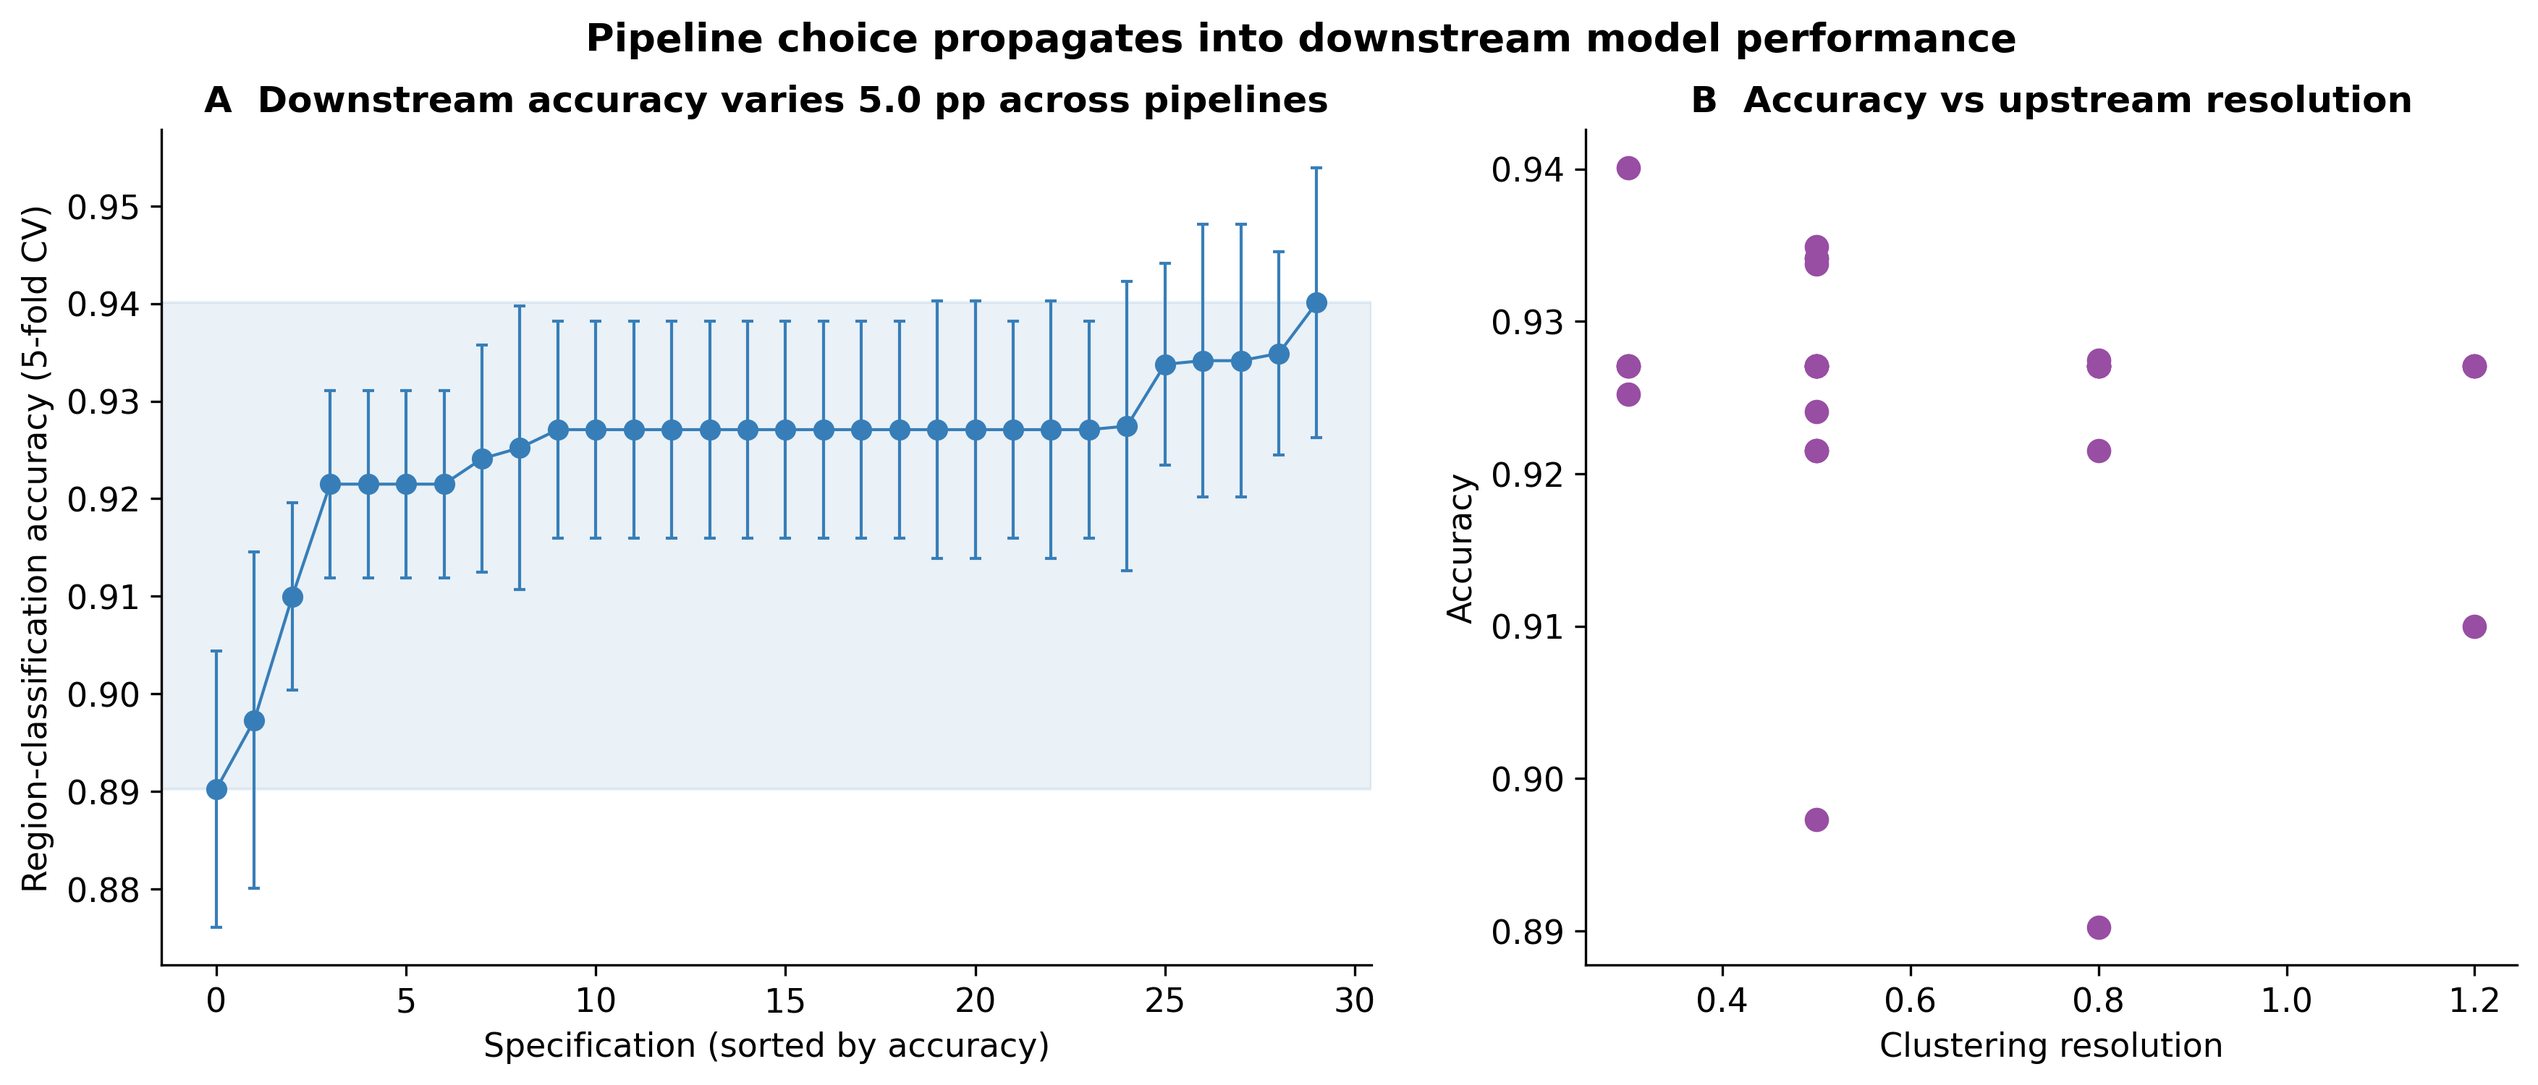
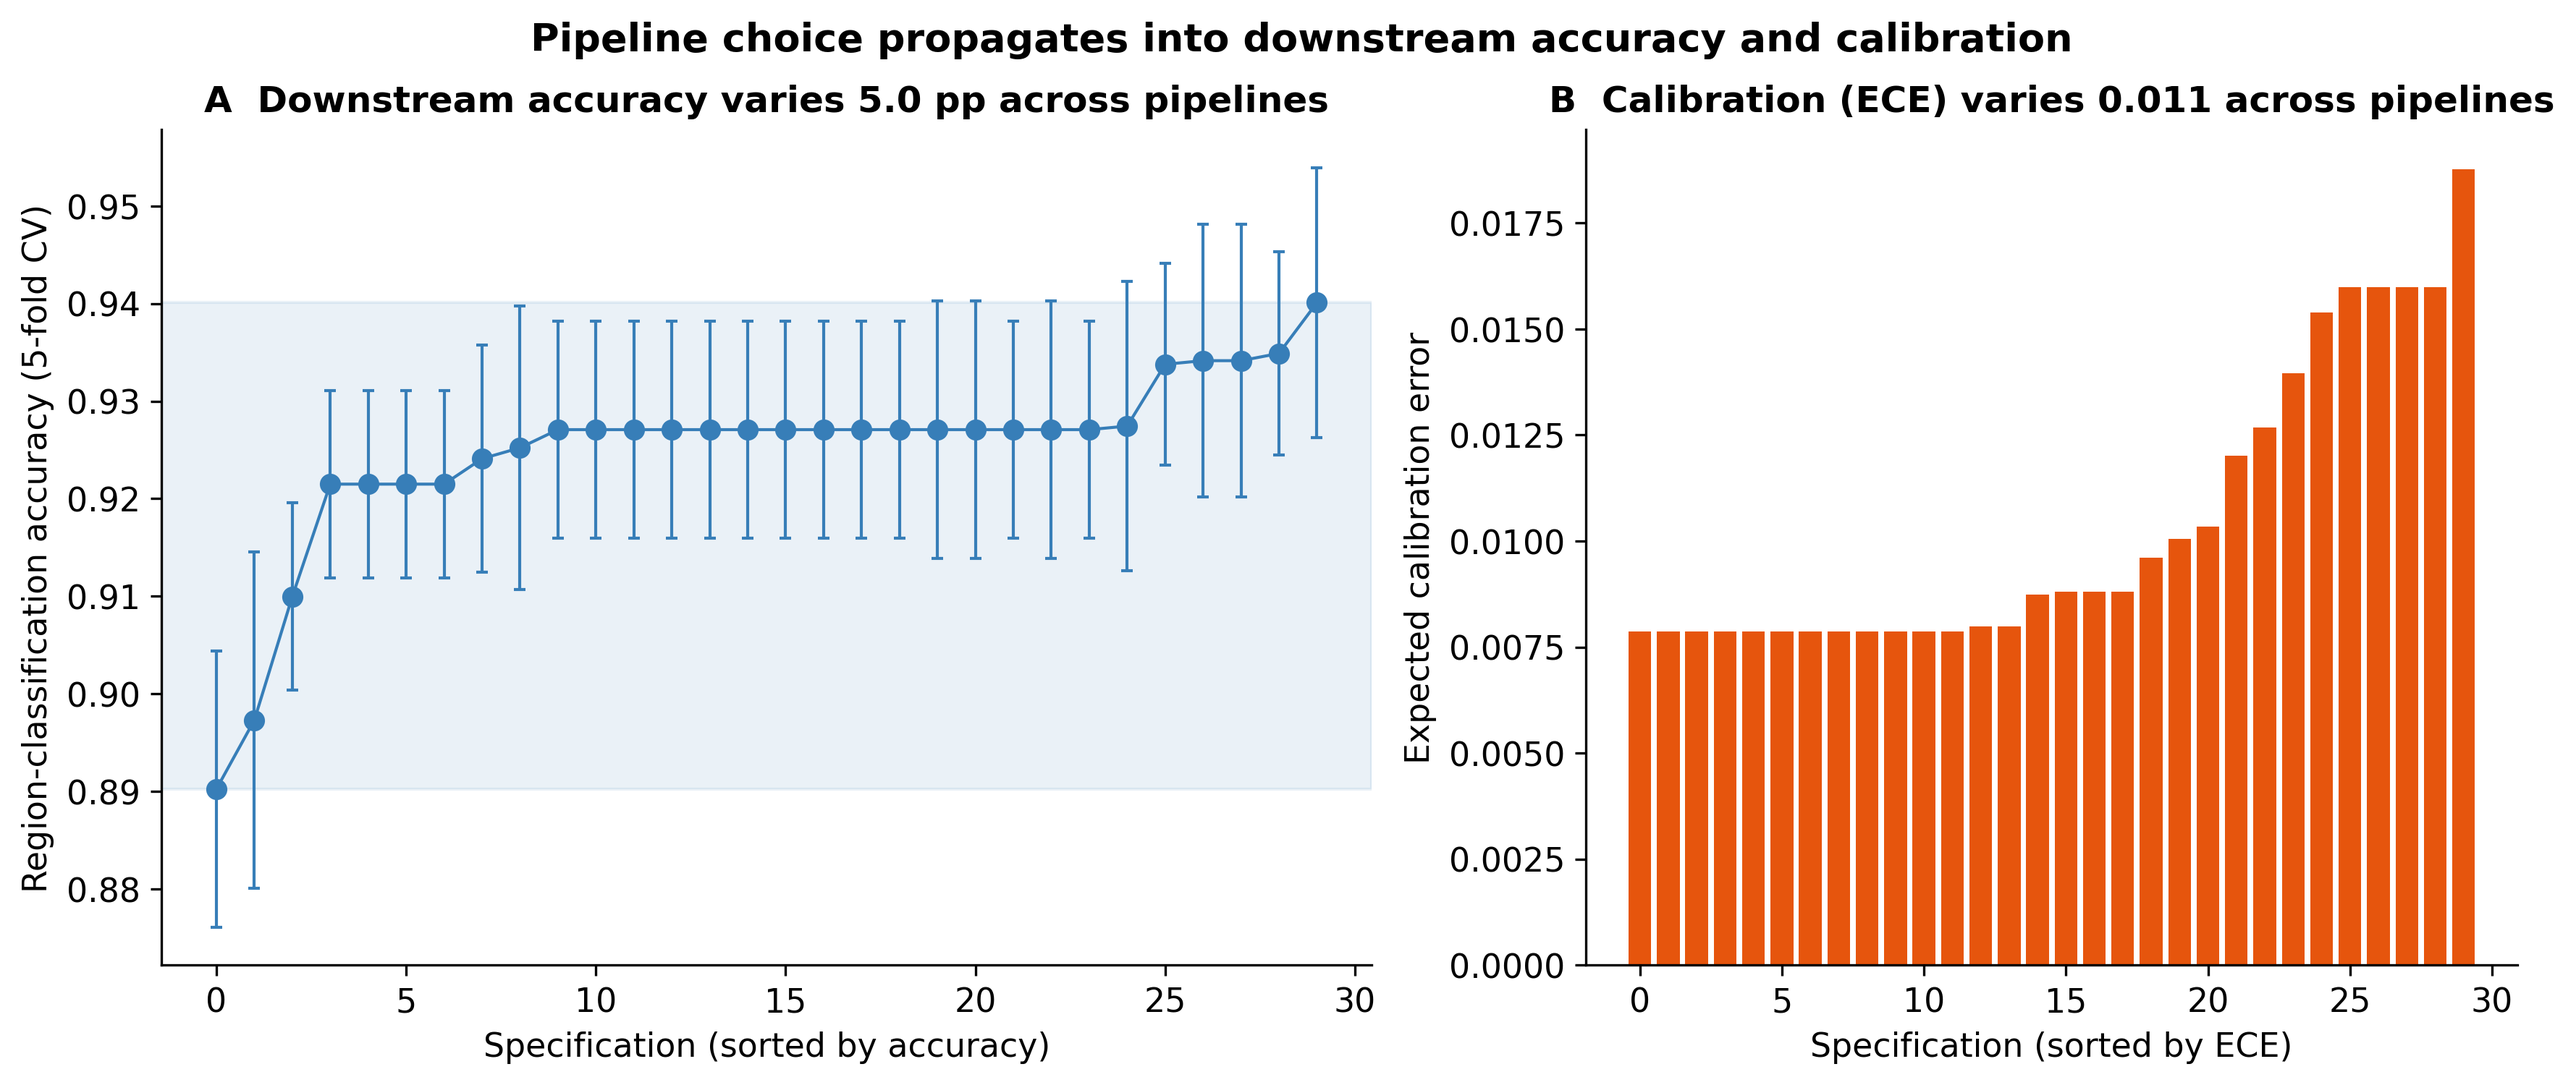
add downstream calibration (Brier/ECE) swing across the multiverse
- report cross-validated Brier score and expected calibration error per spec;
  Brier nearly doubles (0.089->0.159) across pipelines while accuracy moves 5pp,
  so pipeline choice affects calibration more sharply than accuracy
- figure panel B now shows the ECE swing; paper + macros updated; test added

diff --git a/src/downstream.py b/src/downstream.py
@@ -19,6 +19,26 @@ import pandas as pd
 logger = logging.getLogger(__name__)
 
 
+def _brier_ece(y_true, proba, classes, n_bins: int = 10):
+    """Multiclass Brier score and expected calibration error from CV probabilities."""
+    idx = {c: k for k, c in enumerate(classes)}
+    onehot = np.zeros_like(proba)
+    for i, yt in enumerate(y_true):
+        onehot[i, idx[yt]] = 1.0
+    brier = float(np.mean(np.sum((proba - onehot) ** 2, axis=1)))
+
+    conf = proba.max(axis=1)
+    pred = classes[proba.argmax(axis=1)]
+    correct = (pred == y_true).astype(float)
+    bins = np.linspace(0, 1, n_bins + 1)
+    ece = 0.0
+    for lo, hi in zip(bins[:-1], bins[1:]):
+        m = (conf > lo) & (conf <= hi)
+        if m.any():
+            ece += (m.mean()) * abs(correct[m].mean() - conf[m].mean())
+    return brier, float(ece)
+
+
 def downstream_region_classification(
     runs: List[Dict[str, Any]],
     reference_key: str = "cluster",
@@ -28,11 +48,12 @@ def downstream_region_classification(
     """
     Cross-validated region classification from each spec's PCA embedding.
 
-    Returns a row per specification with mean CV accuracy, macro-F1, the embedding
-    dimensionality, and the spec's domain count.
+    Returns a row per specification with mean CV accuracy, macro-F1, and calibration
+    (Brier score and expected calibration error) computed from cross-validated
+    predicted probabilities.
     """
     from sklearn.linear_model import LogisticRegression
-    from sklearn.model_selection import StratifiedKFold, cross_validate
+    from sklearn.model_selection import StratifiedKFold, cross_val_predict, cross_validate
     from sklearn.preprocessing import StandardScaler
 
     rows = []
@@ -48,6 +69,9 @@ def downstream_region_classification(
         cv = StratifiedKFold(n_splits=n_splits, shuffle=True, random_state=seed)
         scores = cross_validate(clf, x, y, cv=cv,
                                 scoring=("accuracy", "f1_macro"), n_jobs=1)
+        proba = cross_val_predict(clf, x, y, cv=cv, method="predict_proba", n_jobs=1)
+        classes = np.unique(y)
+        brier, ece = _brier_ece(y, proba, classes)
         rows.append({
             "spec_name": r["metadata"].get("spec_name", r.get("name", "")),
             "resolution": r["spec"].get("clustering", {}).get("resolution", np.nan),
@@ -56,6 +80,8 @@ def downstream_region_classification(
             "accuracy": float(scores["test_accuracy"].mean()),
             "accuracy_std": float(scores["test_accuracy"].std()),
             "f1_macro": float(scores["test_f1_macro"].mean()),
+            "brier": brier,
+            "ece": ece,
         })
     df = pd.DataFrame(rows).sort_values("accuracy", ascending=False).reset_index(drop=True)
     if len(df):
@@ -72,7 +98,7 @@ def summarize(df: pd.DataFrame) -> Dict[str, Any]:
     """Headline numbers for the downstream experiment."""
     if df.empty:
         return {}
-    return {
+    out = {
         "n_specs": int(len(df)),
         "accuracy_min": float(df["accuracy"].min()),
         "accuracy_max": float(df["accuracy"].max()),
@@ -80,6 +106,16 @@ def summarize(df: pd.DataFrame) -> Dict[str, Any]:
         "f1_min": float(df["f1_macro"].min()),
         "f1_max": float(df["f1_macro"].max()),
     }
+    if "brier" in df.columns:
+        out.update({
+            "brier_min": float(df["brier"].min()),
+            "brier_max": float(df["brier"].max()),
+            "brier_range": float(df["brier"].max() - df["brier"].min()),
+            "ece_min": float(df["ece"].min()),
+            "ece_max": float(df["ece"].max()),
+            "ece_range": float(df["ece"].max() - df["ece"].min()),
+        })
+    return out
 
 
 def plot_downstream(df: pd.DataFrame, output_path: Optional[Path] = None) -> None:
@@ -100,12 +136,21 @@ def plot_downstream(df: pd.DataFrame, output_path: Optional[Path] = None) -> Non
     axes[0].set_title(f"A  Downstream accuracy varies {rng:.1f} pp across pipelines",
                       fontsize=12, fontweight="bold")
 
-    axes[1].scatter(df["resolution"], df["accuracy"], c="#984EA3", s=50)
-    axes[1].set_xlabel("Clustering resolution")
-    axes[1].set_ylabel("Accuracy")
-    axes[1].set_title("B  Accuracy vs upstream resolution", fontsize=12, fontweight="bold")
+    if "ece" in df.columns:
+        de = df.sort_values("ece").reset_index(drop=True)
+        axes[1].bar(range(len(de)), de["ece"], color="#E6550D")
+        axes[1].set_xlabel("Specification (sorted by ECE)")
+        axes[1].set_ylabel("Expected calibration error")
+        rng_e = de["ece"].max() - de["ece"].min()
+        axes[1].set_title(f"B  Calibration (ECE) varies {rng_e:.3f} across pipelines",
+                          fontsize=12, fontweight="bold")
+    else:
+        axes[1].scatter(df["resolution"], df["accuracy"], c="#984EA3", s=50)
+        axes[1].set_xlabel("Clustering resolution")
+        axes[1].set_ylabel("Accuracy")
+        axes[1].set_title("B  Accuracy vs upstream resolution", fontsize=12, fontweight="bold")
 
-    fig.suptitle("Pipeline choice propagates into downstream model performance",
+    fig.suptitle("Pipeline choice propagates into downstream accuracy and calibration",
                  fontsize=13, fontweight="bold")
     if output_path is not None:
         Path(output_path).parent.mkdir(parents=True, exist_ok=True)

diff --git a/paper/sections.tex b/paper/sections.tex
@@ -300,10 +300,13 @@ pipeline-dependent. To quantify the consequence, we trained a cross-validated lo
 classifier to predict anatomical region from each specification's PCA embedding
 (Figure~\ref{fig:downstream}). Accuracy ranges from \DownstreamAccMin{} to \DownstreamAccMax{}
 across the multiverse---a \DownstreamRangePP{}~percentage-point swing attributable solely to
-upstream analytical choices, with no change to the model or its hyperparameters. A researcher
-who fixes a single pipeline therefore inherits an unquantified, pipeline-dependent bias in
-downstream performance; reporting the $S^3$ of the features and domains a model is trained on
-makes that dependence explicit.
+upstream analytical choices, with no change to the model or its hyperparameters. The effect is sharper for
+\emph{calibration} than for accuracy: the multiclass Brier score of the same classifier ranges
+from \BrierMin{} to \BrierMax{} across pipelines---nearly a two-fold swing in how well the
+model's predicted probabilities are calibrated---driven entirely by upstream analytical
+choices. A researcher who fixes a single pipeline therefore inherits an unquantified,
+pipeline-dependent bias in downstream performance and calibration; reporting the $S^3$ of the
+features and domains a model is trained on makes that dependence explicit.
 
 \begin{figure}[t]
   \centering

diff --git a/tests/test_downstream.py b/tests/test_downstream.py
@@ -4,7 +4,7 @@ import anndata as ad
 import numpy as np
 import pandas as pd
 
-from src.downstream import downstream_region_classification, summarize
+from src.downstream import _brier_ece, downstream_region_classification, summarize
 
 
 def _make_run(seed, n=60, d=5):
@@ -28,6 +28,18 @@ def test_downstream_runs_and_scores_high():
     assert df["accuracy"].between(0, 1).all()
     # separable clusters -> high accuracy
     assert df["accuracy"].min() > 0.8
+
+
+def test_brier_ece_perfect_and_worst():
+    classes = np.array(["A", "B"])
+    y = np.array(["A", "B", "A", "B"])
+    perfect = np.array([[1.0, 0.0], [0.0, 1.0], [1.0, 0.0], [0.0, 1.0]])
+    brier, ece = _brier_ece(y, perfect, classes)
+    assert brier < 1e-9 and ece < 1e-9
+    # confidently wrong -> Brier = 2.0 per sample
+    wrong = np.array([[0.0, 1.0], [1.0, 0.0], [0.0, 1.0], [1.0, 0.0]])
+    brier_w, ece_w = _brier_ece(y, wrong, classes)
+    assert abs(brier_w - 2.0) < 1e-9 and abs(ece_w - 1.0) < 1e-9
 
 
 def test_summarize_keys():

diff --git a/scripts/report_numbers.py b/scripts/report_numbers.py
@@ -77,6 +77,9 @@ def main() -> None:
         macros["DownstreamRangePP"] = _fmt(down.get("accuracy_range_pp", 0))
         macros["DownstreamAccMin"] = _fmt(down.get("accuracy_min", 0), digits=2)
         macros["DownstreamAccMax"] = _fmt(down.get("accuracy_max", 0), digits=2)
+        if "brier_min" in down:
+            macros["BrierMin"] = _fmt(down["brier_min"], digits=3)
+            macros["BrierMax"] = _fmt(down["brier_max"], digits=3)
 
     lines = [
         "% Auto-generated by scripts/report_numbers.py -- do not edit by hand.",

diff --git a/paper/numbers.tex b/paper/numbers.tex
@@ -28,3 +28,5 @@
 \newcommand{\DownstreamRangePP}{5.0}
 \newcommand{\DownstreamAccMin}{0.89}
 \newcommand{\DownstreamAccMax}{0.94}
+\newcommand{\BrierMin}{0.089}
+\newcommand{\BrierMax}{0.159}
